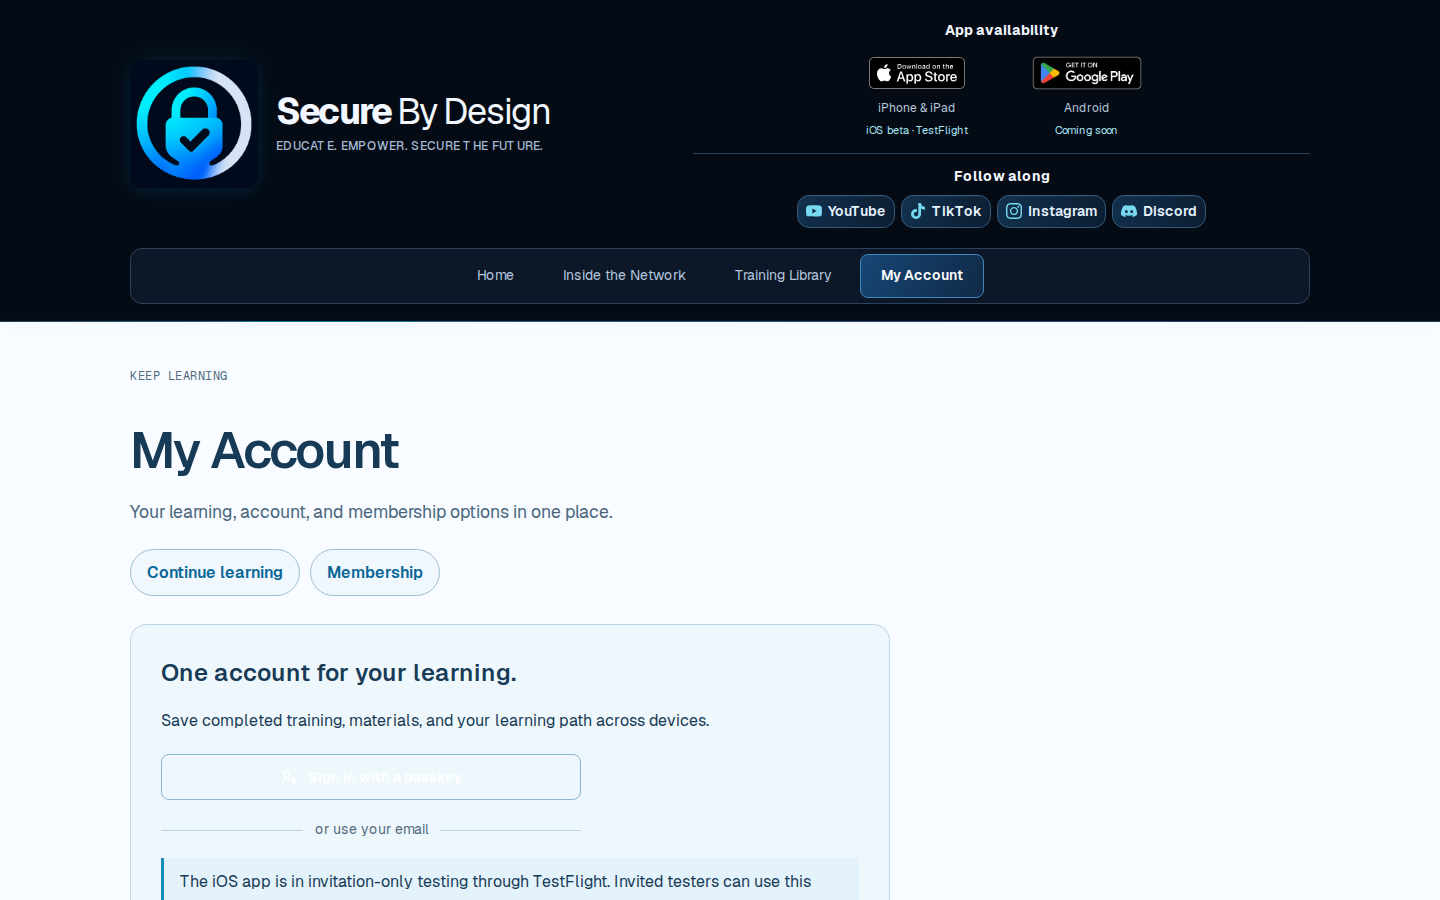
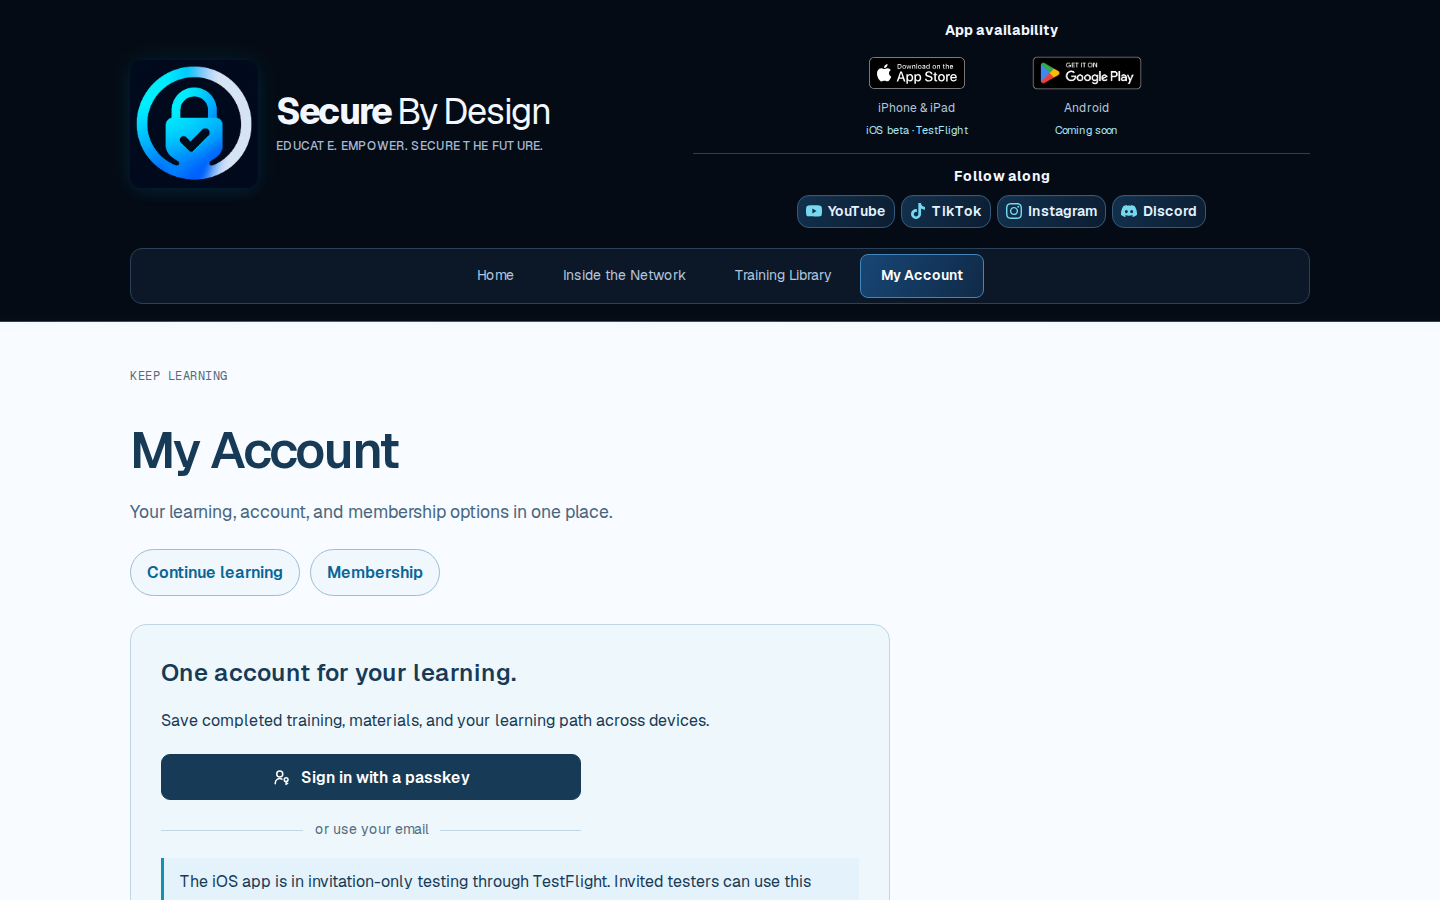
Sign-in live check results

Changed region(s): [[0.0938, 0.84, 0.4062, 0.9022]]

diff --git a/audit-results/sign-in/results.md b/audit-results/sign-in/results.md
@@ -1,6 +1,6 @@
 # Sign-in live check
 
-0 failed of 26
+0 failed of 28
 
 - ✅ providers endpoint — 200 {"providers":{"apple":false,"google":false,"microsoft":false},"passkeys":true} cache=private, no-store
 - ✅ unconfigured provider start redirects with an error code — 303 /my-progress?signin_error=unavailable#account
@@ -10,6 +10,7 @@
 - ✅ app exchange rejects an unknown code — 400 {"error":"That sign-in expired. Try again."}
 - ✅ www redirects to apex keeping the query — 301 https://securebydesigninc.com/app-sign-in?challenge=abc
 - ✅ my-progress shows passkey sign-in (390)
+- ✅ passkey button text is readable (390) — 11.69:1 rgb(255, 255, 255) on rgb(23, 59, 86)
 - ✅ provider buttons hidden until keys exist (390) — 0 shown
 - ✅ no horizontal scroll on my-progress (390) — 0px
 - ✅ app-sign-in shows the sign-in form (390)
@@ -18,9 +19,10 @@
 - ✅ privacy mentions passkeys and self-service deletion (390)
 - ✅ no page errors (390)
 - ✅ my-progress shows passkey sign-in (1440)
+- ✅ passkey button text is readable (1440) — 11.69:1 rgb(255, 255, 255) on rgb(23, 59, 86)
 - ✅ provider buttons hidden until keys exist (1440) — 0 shown
 - ✅ no horizontal scroll on my-progress (1440) — 0px
-- ✅ passkey options from the site — {"status":200,"body":{"publicKey":{"challenge":"gb9etC68BZoQ-TfC3KWYslk1LY8arTrdKmfIQNZ_TWM","rpId":"securebydesigninc.com","userVerification":"required","timeout":300000,"allowCredentials":[]}}}
+- ✅ passkey options from the site — {"status":200,"body":{"publicKey":{"challenge":"LLpvE2_fdXIqQt0BODfjvGfDxKci4BvYn0oDqTqSVpc","rpId":"securebydesigninc.com","userVerification":"required","timeout":300000,"allowCredentials":[]}}}
 - ✅ unregistered passkey is refused with a clear message — This passkey isn’t registered with Secure By Design. Sign in another way, then add it in My Account.
 - ✅ still signed out after unregistered passkey — 401
 - ✅ app-sign-in shows the sign-in form (1440)
